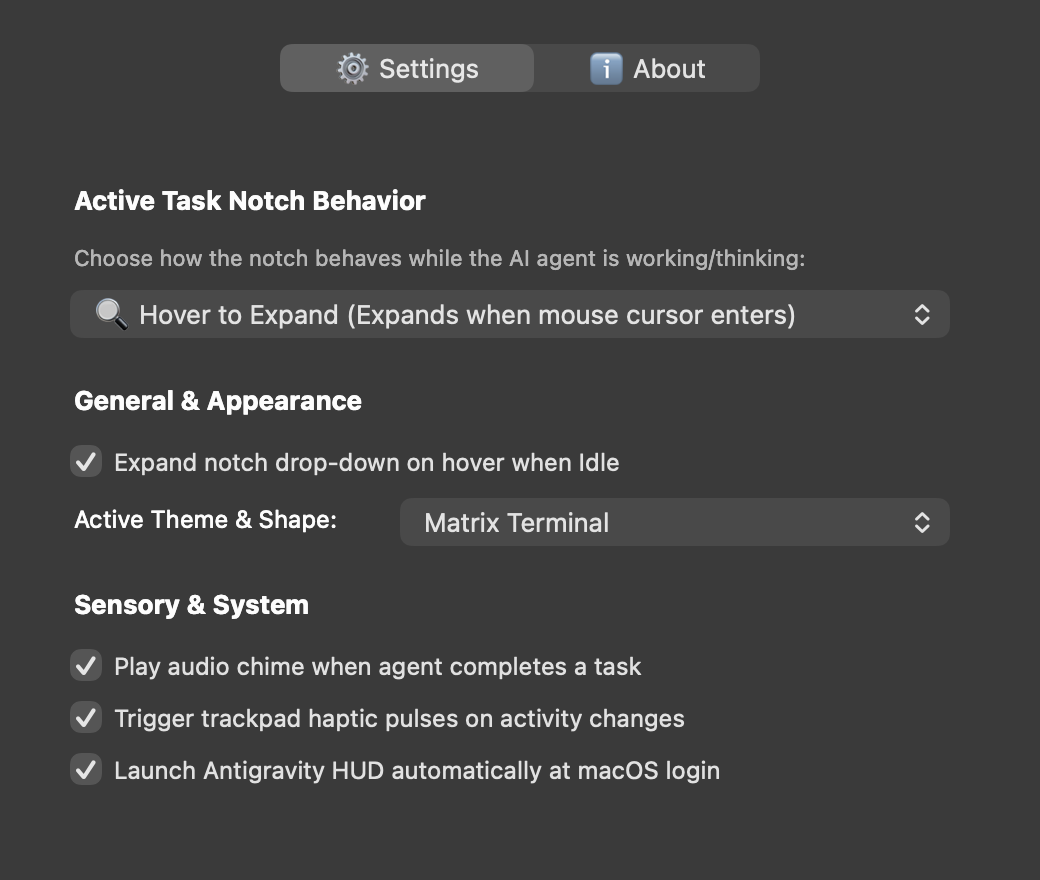
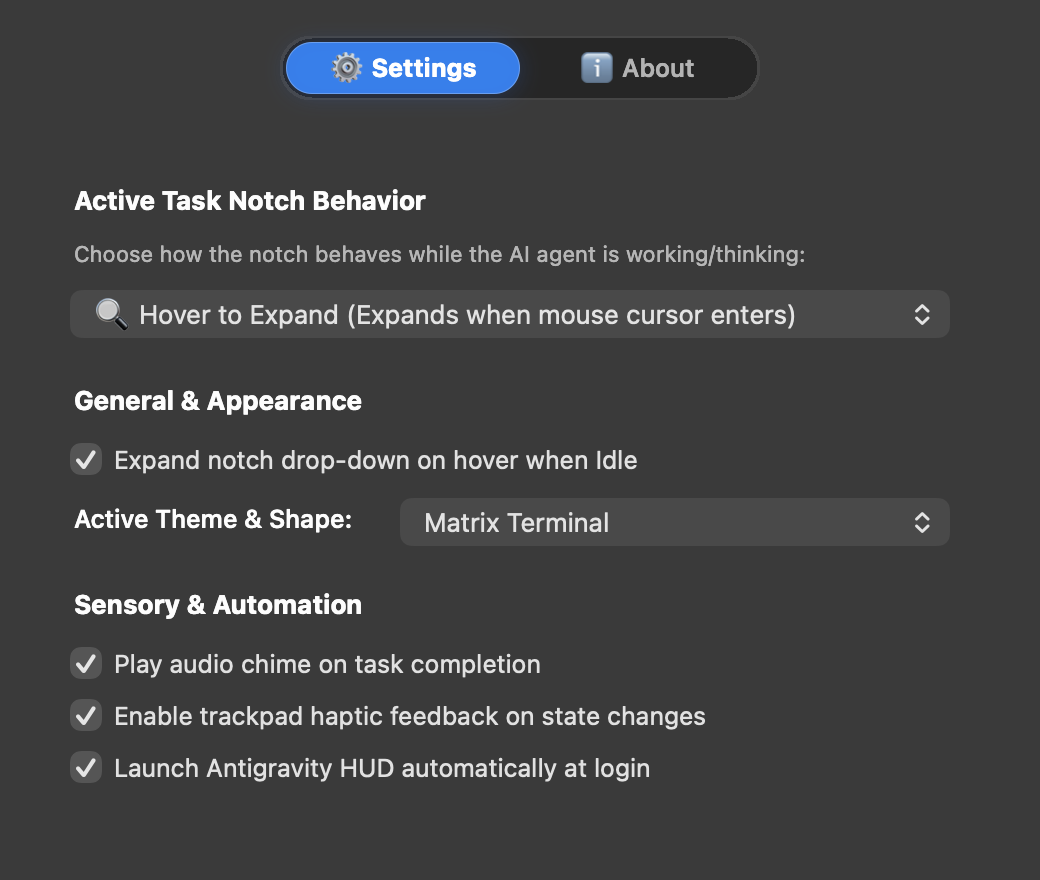
feat: implement Telegram-style animated liquid sliding bubble tab bar in Settings & About window

diff --git a/src/UI/SettingsWindowController.swift b/src/UI/SettingsWindowController.swift
@@ -5,11 +5,115 @@ public enum SettingsTab: Int {
     case about = 1
 }
 
+// MARK: - Modern Telegram-Style Liquid Sliding Bubble Tab Control
+public class LiquidPillSegmentedControl: NSView {
+    public var onSelectionChanged: ((Int) -> Void)?
+    public private(set) var selectedIndex: Int = 0
+
+    private var items: [String] = []
+    private let bubbleLayer = CALayer()
+    private var itemButtons: [NSButton] = []
+
+    public init(items: [String], frame: NSRect) {
+        self.items = items
+        super.init(frame: frame)
+        wantsLayer = true
+        setupUI()
+    }
+
+    public override init(frame frameRect: NSRect) {
+        super.init(frame: frameRect)
+        wantsLayer = true
+    }
+
+    public required init?(coder: NSCoder) {
+        super.init(coder: coder)
+        wantsLayer = true
+    }
+
+    private func setupUI() {
+        guard let layer = self.layer else { return }
+
+        // Outer pill capsule container (Adaptive Dark Glass)
+        layer.cornerRadius = bounds.height / 2
+        layer.backgroundColor = NSColor(white: 0.12, alpha: 0.75).cgColor
+        layer.borderColor = NSColor(white: 1.0, alpha: 0.14).cgColor
+        layer.borderWidth = 1.0
+        layer.masksToBounds = false
+
+        // Sliding bubble indicator (Telegram / Dynamic Island style)
+        let padding: CGFloat = 3.0
+        let itemW = (bounds.width - (padding * 2)) / CGFloat(max(1, items.count))
+        let itemH = bounds.height - (padding * 2)
+
+        bubbleLayer.cornerRadius = itemH / 2
+        bubbleLayer.backgroundColor = NSColor(red: 0.0, green: 0.52, blue: 0.98, alpha: 0.95).cgColor
+        bubbleLayer.borderColor = NSColor(white: 1.0, alpha: 0.25).cgColor
+        bubbleLayer.borderWidth = 0.5
+        bubbleLayer.shadowColor = NSColor(red: 0.0, green: 0.45, blue: 0.98, alpha: 0.5).cgColor
+        bubbleLayer.shadowOpacity = 0.45
+        bubbleLayer.shadowRadius = 6
+        bubbleLayer.shadowOffset = CGSize(width: 0, height: -1)
+        bubbleLayer.frame = CGRect(x: padding, y: padding, width: itemW, height: itemH)
+        layer.addSublayer(bubbleLayer)
+
+        // Item buttons
+        for (i, title) in items.enumerated() {
+            let btn = NSButton(title: title, target: self, action: #selector(itemClicked(_:)))
+            btn.tag = i
+            btn.isBordered = false
+            btn.wantsLayer = true
+            btn.font = NSFont.systemFont(ofSize: 12.5, weight: i == 0 ? .bold : .medium)
+            btn.contentTintColor = i == 0 ? .white : NSColor(white: 0.7, alpha: 1.0)
+            btn.frame = NSRect(x: padding + CGFloat(i) * itemW, y: padding, width: itemW, height: itemH)
+            addSubview(btn)
+            itemButtons.append(btn)
+        }
+    }
+
+    public func setSelectedIndex(_ index: Int, animated: Bool = true) {
+        guard index >= 0 && index < items.count else { return }
+        selectedIndex = index
+
+        let padding: CGFloat = 3.0
+        let itemW = (bounds.width - (padding * 2)) / CGFloat(items.count)
+        let targetX = padding + CGFloat(index) * itemW
+        let targetFrame = CGRect(x: targetX, y: padding, width: itemW, height: bounds.height - (padding * 2))
+
+        for (i, btn) in itemButtons.enumerated() {
+            btn.font = NSFont.systemFont(ofSize: 12.5, weight: i == index ? .bold : .medium)
+            btn.contentTintColor = i == index ? .white : NSColor(white: 0.7, alpha: 1.0)
+        }
+
+        if animated {
+            CATransaction.begin()
+            CATransaction.setAnimationDuration(0.26)
+            CATransaction.setAnimationTimingFunction(CAMediaTimingFunction(controlPoints: 0.2, 0.9, 0.3, 1.0))
+            bubbleLayer.frame = targetFrame
+            CATransaction.commit()
+        } else {
+            CATransaction.begin()
+            CATransaction.setDisableActions(true)
+            bubbleLayer.frame = targetFrame
+            CATransaction.commit()
+        }
+    }
+
+    @objc private func itemClicked(_ sender: NSButton) {
+        let index = sender.tag
+        if index != selectedIndex {
+            setSelectedIndex(index, animated: true)
+            SensoryManager.shared.triggerHaptic(pattern: .generic)
+            onSelectionChanged?(index)
+        }
+    }
+}
+
 // MARK: - Modern Glassmorphic Preferences & About Window Controller
 public class SettingsWindowController: NSWindowController, NSWindowDelegate {
     public static let shared = SettingsWindowController()
 
-    private var segmentedControl: NSSegmentedControl!
+    private var pillSegmentedControl: LiquidPillSegmentedControl!
     private var containerView: NSView!
 
     private var settingsView: NSView!
@@ -56,11 +160,17 @@ public class SettingsWindowController: NSWindowController, NSWindowDelegate {
         visualEffect.blendingMode = .behindWindow
         window.contentView = visualEffect
 
-        // Top Segmented Control Switcher
-        segmentedControl = NSSegmentedControl(labels: ["⚙ Settings", "ℹ About"], trackingMode: .selectOne, target: self, action: #selector(tabChanged))
-        segmentedControl.selectedSegment = 0
-        segmentedControl.frame = NSRect(x: (520 - 240) / 2, y: 390, width: 240, height: 32)
-        visualEffect.addSubview(segmentedControl)
+        // Top Telegram-Style Liquid Pill Control
+        pillSegmentedControl = LiquidPillSegmentedControl(
+            items: ["⚙ Settings", "ℹ About"],
+            frame: NSRect(x: (520 - 240) / 2, y: 390, width: 240, height: 32)
+        )
+        pillSegmentedControl.onSelectionChanged = { [weak self] index in
+            if let tab = SettingsTab(rawValue: index) {
+                self?.showTab(tab)
+            }
+        }
+        visualEffect.addSubview(pillSegmentedControl)
 
         // Main Container View
         containerView = NSView(frame: NSRect(x: 0, y: 0, width: 520, height: 380))
@@ -120,20 +230,20 @@ public class SettingsWindowController: NSWindowController, NSWindowDelegate {
         settingsView.addSubview(themePopup)
         currentY -= 40
 
-        // Section 3: Sensory & System
-        let sensoryHeader = makeSectionHeader(title: "Sensory & System", y: currentY)
+        // Section 3: Sensory & Launch
+        let sensoryHeader = makeSectionHeader(title: "Sensory & Automation", y: currentY)
         settingsView.addSubview(sensoryHeader)
         currentY -= 30
 
-        soundCheck = makeCheckbox(title: "Play audio chime when agent completes a task", y: currentY, action: #selector(soundChanged))
+        soundCheck = makeCheckbox(title: "Play audio chime on task completion", y: currentY, action: #selector(soundChanged))
         settingsView.addSubview(soundCheck)
         currentY -= 26
 
-        hapticCheck = makeCheckbox(title: "Trigger trackpad haptic pulses on activity changes", y: currentY, action: #selector(hapticChanged))
+        hapticCheck = makeCheckbox(title: "Enable trackpad haptic feedback on state changes", y: currentY, action: #selector(hapticChanged))
         settingsView.addSubview(hapticCheck)
         currentY -= 26
 
-        launchLoginCheck = makeCheckbox(title: "Launch Antigravity HUD automatically at macOS login", y: currentY, action: #selector(launchLoginChanged))
+        launchLoginCheck = makeCheckbox(title: "Launch Antigravity HUD automatically at login", y: currentY, action: #selector(launchLoginChanged))
         settingsView.addSubview(launchLoginCheck)
     }
 
@@ -141,12 +251,10 @@ public class SettingsWindowController: NSWindowController, NSWindowDelegate {
     private func buildAboutView() {
         aboutView = NSView(frame: containerView.bounds)
 
-        // App Icon / Futuristic Badge
+        // App Icon
         let iconImageView = NSImageView(frame: NSRect(x: (520 - 72) / 2, y: 270, width: 72, height: 72))
         if let iconPath = Bundle.main.path(forResource: "AppIcon", ofType: "icns"),
-           let img = NSImage(contentsOfFile: iconPath) {
-            iconImageView.image = img
-        } else if let appIcon = NSImage(contentsOfFile: "/Applications/AntigravityHUD.app/Contents/Resources/AppIcon.icns") {
+           let appIcon = NSImage(contentsOfFile: iconPath) {
             iconImageView.image = appIcon
         } else if let img = NSApp.applicationIconImage {
             iconImageView.image = img
@@ -219,7 +327,7 @@ public class SettingsWindowController: NSWindowController, NSWindowDelegate {
     public func showWindow(tab: SettingsTab) {
         refreshControls()
         showTab(tab)
-        segmentedControl.selectedSegment = tab.rawValue
+        pillSegmentedControl.setSelectedIndex(tab.rawValue, animated: false)
         NSApp.activate(ignoringOtherApps: true)
         self.window?.makeKeyAndOrderFront(nil)
     }
@@ -233,12 +341,6 @@ public class SettingsWindowController: NSWindowController, NSWindowDelegate {
         case .about:
             containerView.addSubview(aboutView)
             window?.title = "About Antigravity HUD"
-        }
-    }
-
-    @objc private func tabChanged() {
-        if let tab = SettingsTab(rawValue: segmentedControl.selectedSegment) {
-            showTab(tab)
         }
     }
 
@@ -330,16 +432,16 @@ public class SettingsWindowController: NSWindowController, NSWindowDelegate {
 
     private func makeLabel(text: String, y: CGFloat, isSub: Bool) -> NSTextField {
         let label = NSTextField(labelWithString: text)
-        label.font = isSub ? NSFont.systemFont(ofSize: 11) : NSFont.systemFont(ofSize: 12)
+        label.font = NSFont.systemFont(ofSize: isSub ? 11 : 12.5, weight: isSub ? .regular : .medium)
         label.textColor = isSub ? .secondaryLabelColor : .labelColor
-        label.frame = NSRect(x: 35, y: y, width: 440, height: 16)
+        label.frame = NSRect(x: 35, y: y, width: 440, height: 18)
         return label
     }
 
     private func makeCheckbox(title: String, y: CGFloat, action: Selector) -> NSButton {
-        let button = NSButton(checkboxWithTitle: title, target: self, action: action)
-        button.font = NSFont.systemFont(ofSize: 12)
-        button.frame = NSRect(x: 35, y: y, width: 440, height: 18)
-        return button
+        let btn = NSButton(checkboxWithTitle: title, target: self, action: action)
+        btn.font = NSFont.systemFont(ofSize: 12.5, weight: .regular)
+        btn.frame = NSRect(x: 35, y: y, width: 440, height: 20)
+        return btn
     }
 }
